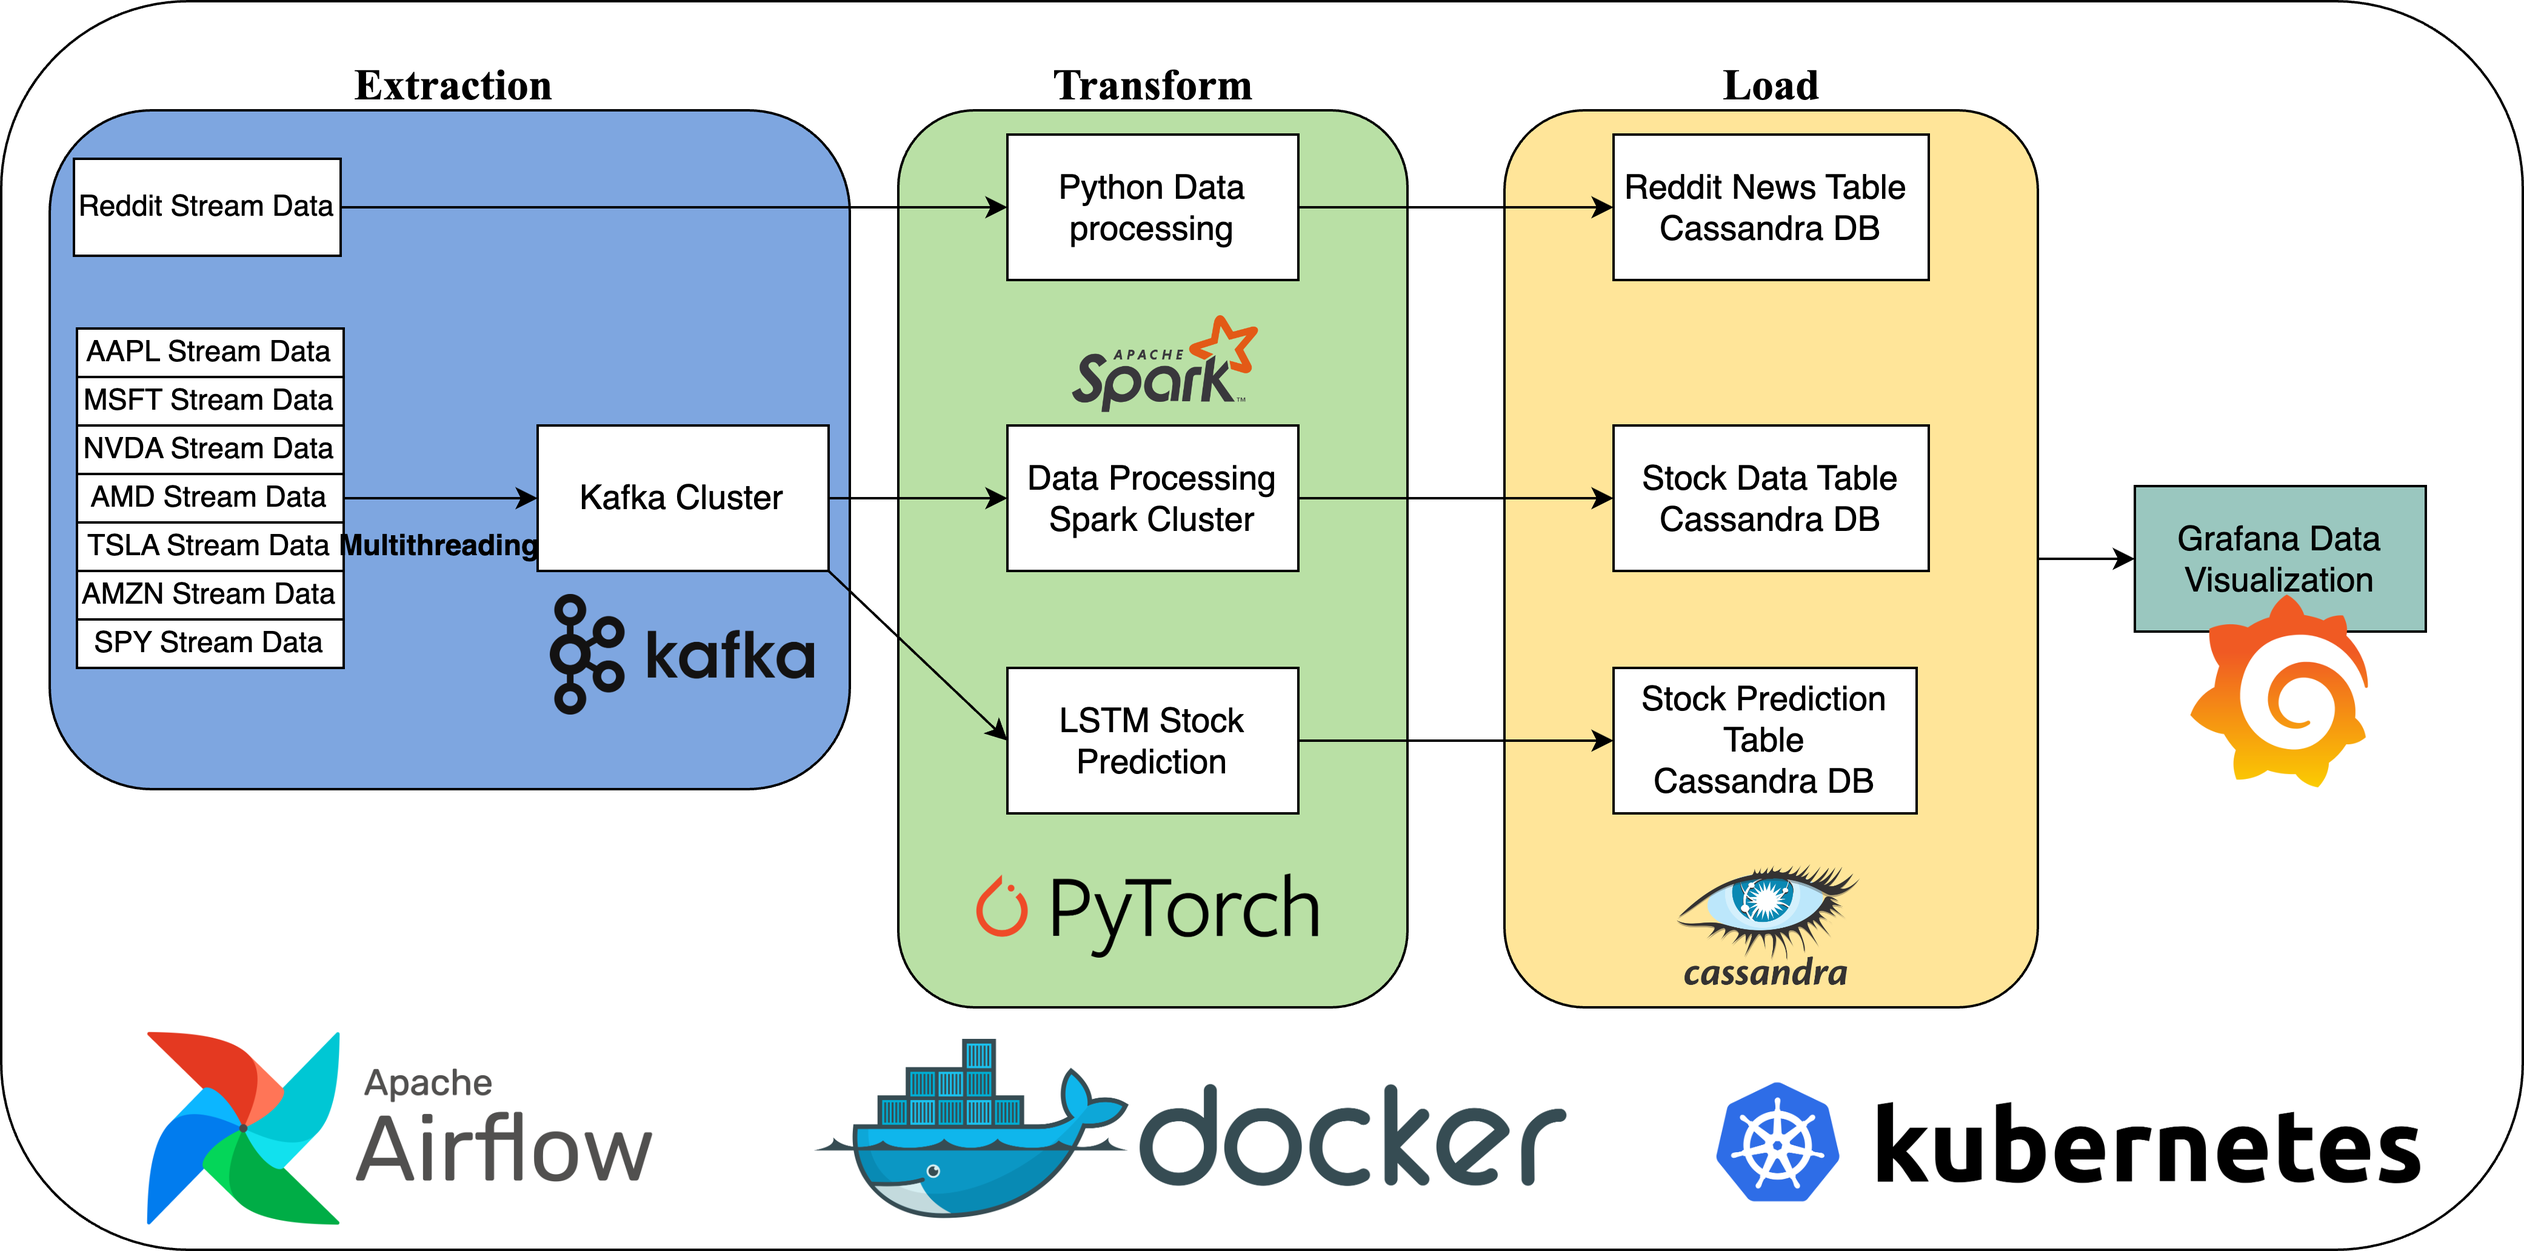
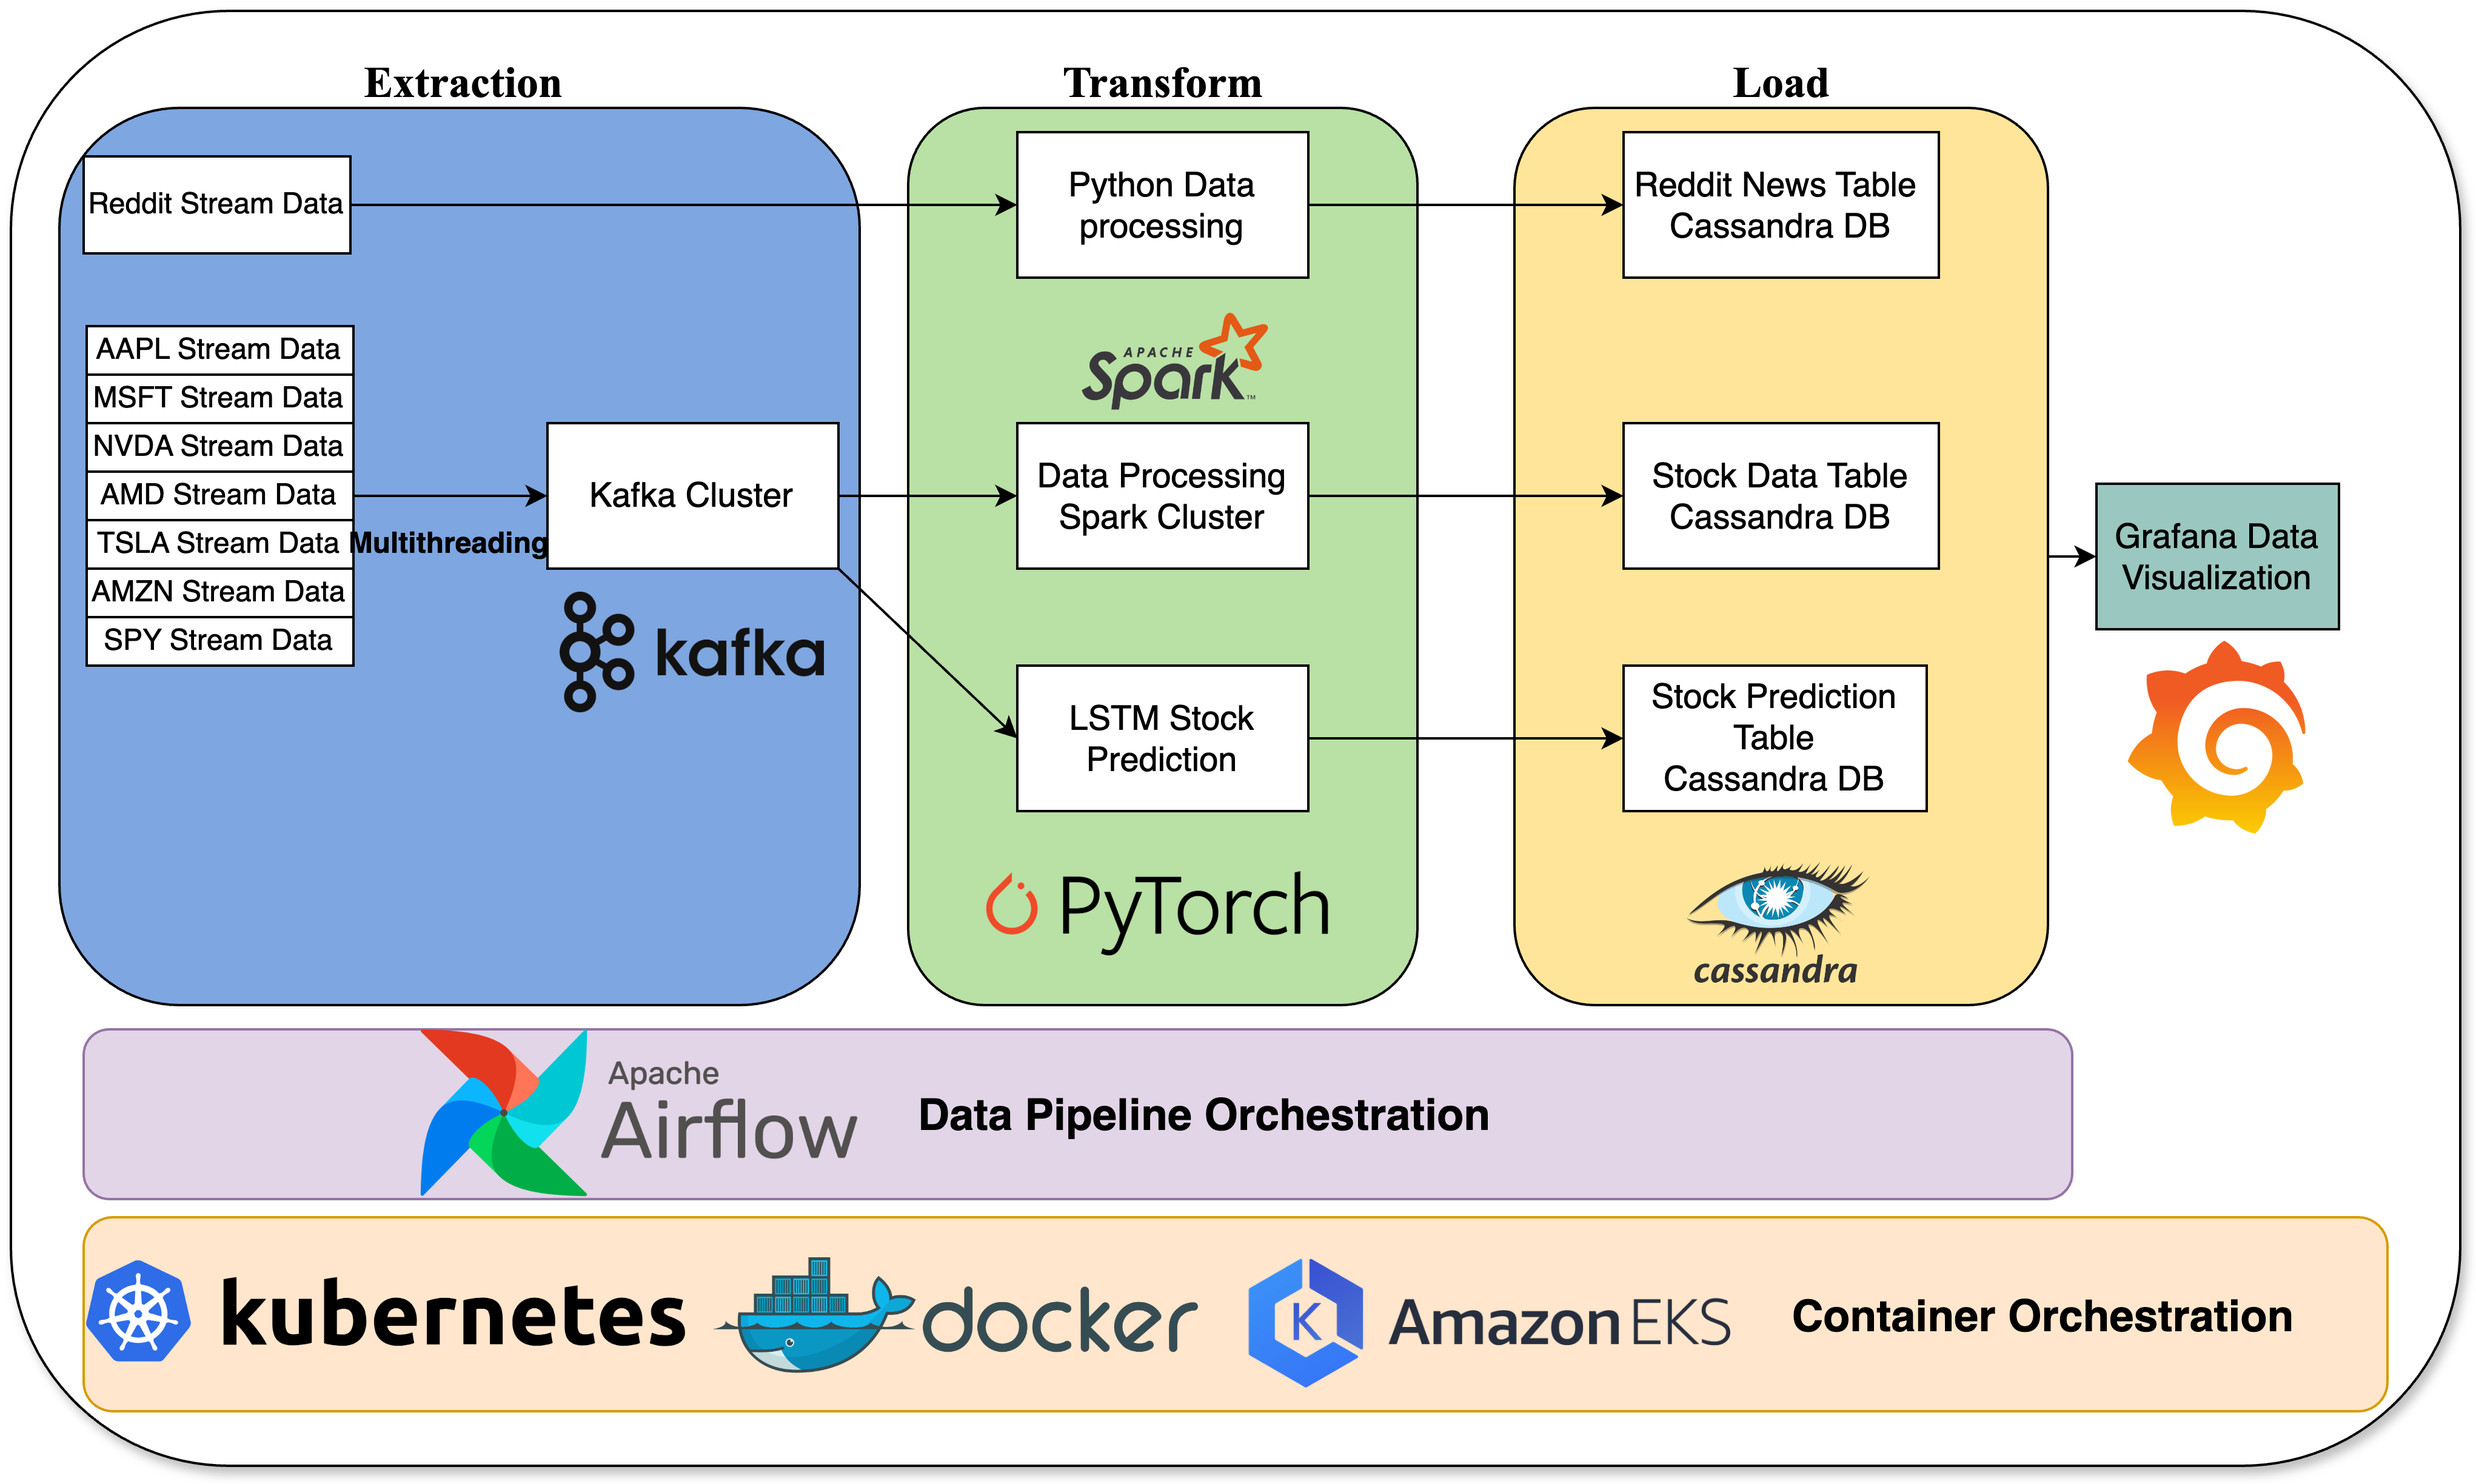
Add the AWS

diff --git a/README.md b/README.md
@@ -19,9 +19,10 @@
 3. Apache Spark: batch data processing
 4. Apache Cassandra: NoSQL database to store time series data
 5. Docker + Kubernets: Containerization and Docker Orchestration
-6. Pytorch: Deep learning model 
-7. Grafna: Stream Data visualization
-8. Python: produce streaming data with multithreading
+6. AWS: Amazon Elastic Kubernetes Service(EKS) to run Kubernets on cloud 
+7. Pytorch: Deep learning model 
+8. Grafna: Stream Data visualization
+9. Python: produce streaming data with multithreading
 
 ## Project Design Choice
 
@@ -45,8 +46,6 @@
     * $T=200$ look back two hundred seconds data 
     * $D=5$ the features in the data (price, number of transactions, high price, low price, volumes)
   * Prediction Data Dimension (1, 200, 5)
-* Data Preprocessing:
-  * Use MinMaxScaler to make sure each feature has similar scale
 * Model Structure:
   * X->[LSTM * 5]->Linear->Price-Prediction
 * How the Model works:
@@ -56,8 +55,9 @@
 
 ## Future Directions
 
-1. Deploy the local kubernets to AWS EKS and Use GPU accelerator on cloud
-2. Train a better deep learning model to make prediction more accurate and faster
+1. Use Terraform to initialize cloud infrastructure automatically
+2. Use kubeflow to train deep learning model automatically
+3. Train a better deep learning model to make prediction more accurate and faster
 
 
 ## Installment
@@ -68,11 +68,46 @@
 2. `Docker` is running and `K8S` is running
 3. `Helm` is installed in local computer
 4. `Dockerhub`
-5. Docker builder will build the image for arm architecture, so make sure your computer(e.g Mac M1, M2, M3, ...) is compatible
-6. [Stock API Key](https://polygon.io/)(Not Free)
-7. [Reddit API Key](https://www.reddit.com/prefs/apps)
+5. [Stock API Key](https://polygon.io/)(Not Free)
+6. [Reddit API Key](https://www.reddit.com/prefs/apps)
+7. AWS acccount if you want to deploy on aws
 
-### Build the project:
+### Deploy on Amazon Web Service
+
+1. At project root directory, run `env.py` to generate the environment file under the project root directory
+2. At terminal, run `aws configure` to configure the aws command line
+3. At the [IAM]("https://us-east-1.console.aws.amazon.com/iam"), make sure you have following roles
+   1. eks role
+   2. ec2 role
+4. At [EKS](https://us-west-1.console.aws.amazon.com/eks/home), intialize the cluster 
+5. Initialize the node group with 6 `c3.xlarge` nodes with x86-64 architecture
+6. Add the `Amazon EBS CSI add-on` in the cluster by following the [AWS-Instruction](https://docs.aws.amazon.com/eks/latest/userguide/managing-ebs-csi.html)
+7. At terminal, run `aws eks update-kubeconfig --region <region> --name <cluster_name>`. Make sure the current kubectl context is eks by running `kubectl config get-contexts` on terminal.
+
+#### Build Project(x86-64 archiecture)
+
+```bash
+make k8s-kafka
+make k8s-cassandra
+make k8s-spark
+make k8s-kafka-dashboard
+make k8s-data-dashboard
+make k8s-dashboard
+```
+
+For each command line in the following code snippet, run it in different terminal under root directory:
+
+```bash
+cd k8s/cassandra  && make cassandra-cluster-local-connection
+cd k8s/kafka-dashboard && make kafka-dashboard-port-forward
+cd k8s/spark && make spark-port-forward
+cd k8s/grafana && make grafana-port-forward
+make k8s-airflow-amd64 # This will take ~10-20mins to intall
+```
+### Deploy on premise
+
+
+#### Build the project:
 
 1. At project root directory, run `env.py` to generate the environment file under the project root directory
 2. Run the following command and wait all commands to finish: 
@@ -93,13 +128,13 @@ cd k8s/cassandra  && make cassandra-cluster-local-connection
 cd k8s/kafka-dashboard && make kafka-dashboard-port-forward
 cd k8s/spark && make spark-port-forward
 cd k8s/grafana && make grafana-port-forward
-make k8s-airflow
+make k8s-airflow-arm64 # Change this to make k8s-airflow-amd64 if you are using x86-64 architecture
 ```
 
 ### Access the K8S resources
 
 1. [k8s-dashboard](http://localhost:8001/api/v1/namespaces/kubernetes-dashboard/services/https:kubernetes-dashboard:/proxy/.) for Kubernets cluster monitor
-2. [Airflow](http://localhost:8080) (username:admin, password: admin) for  real time data generation and consumption pipeline.
+2. [Airflow](http://localhost:10001) (username:admin, password: admin) for  real time data generation and consumption pipeline.
 3. [kafka-ui](http://localhost:10000) : monitor kafka cluster status.
 4. [spark-ui](http://localhost:10001) : monitor spark cluster status.s
 5. [Grafani](http://localhost:3000) : Data Visualization
